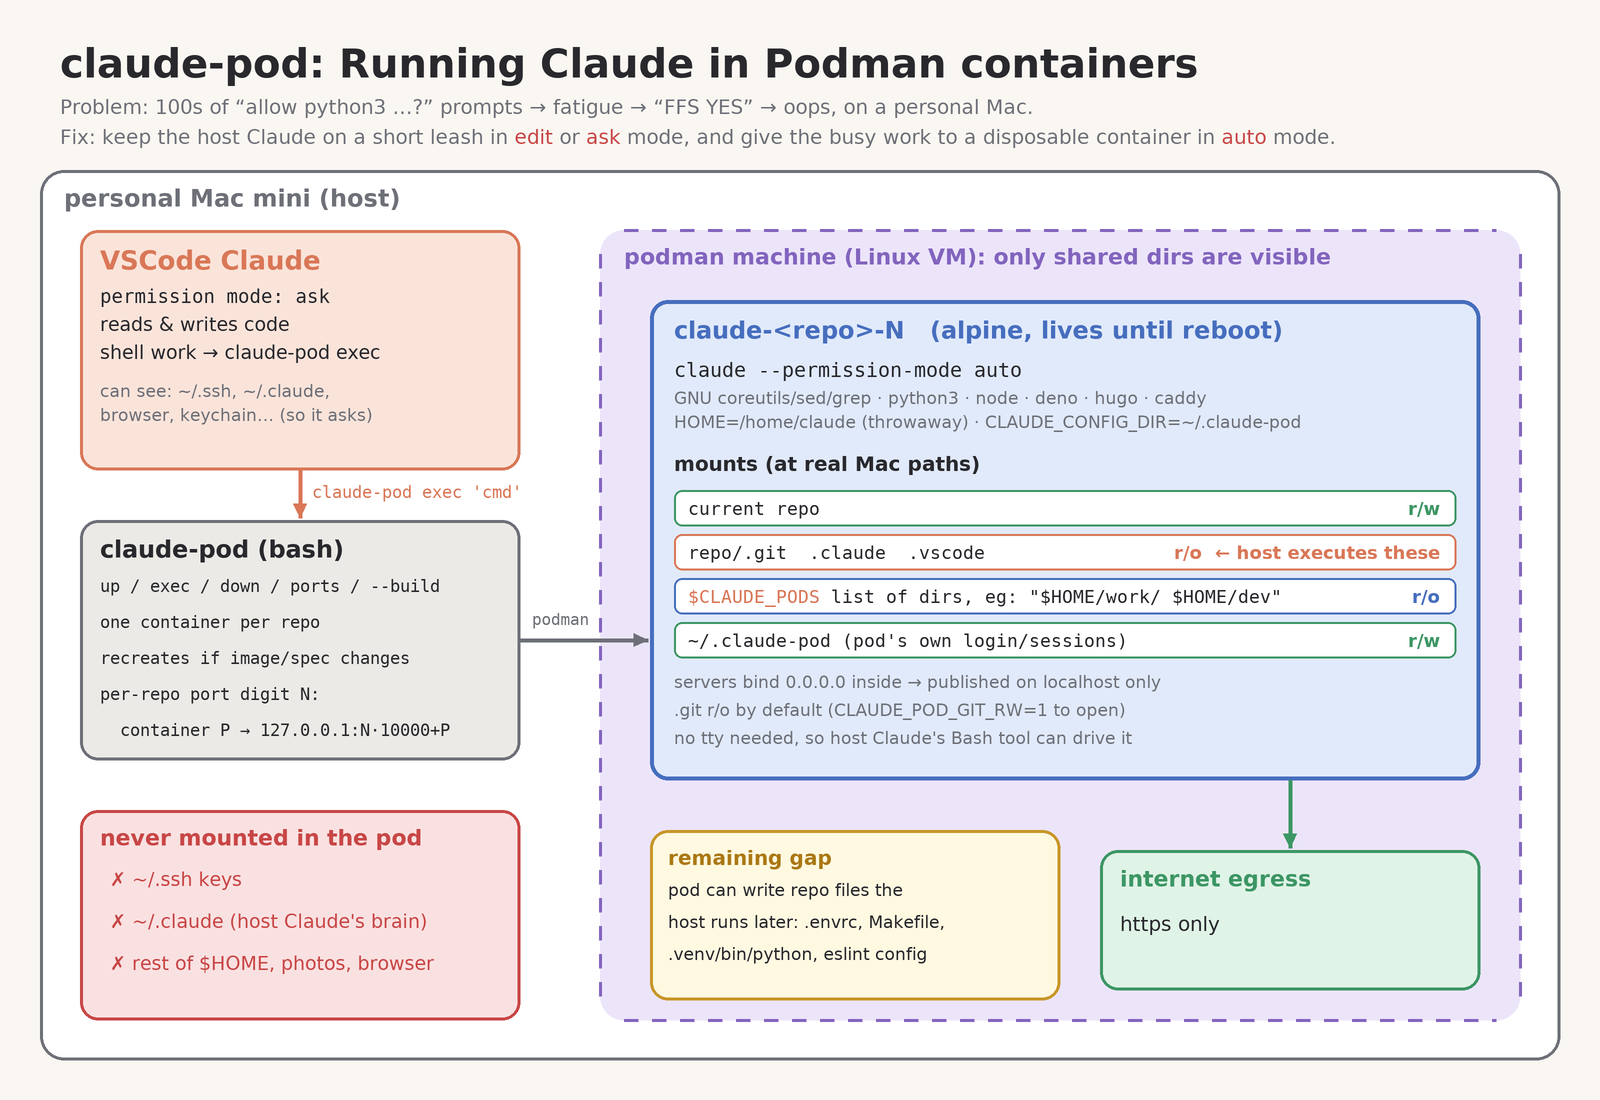
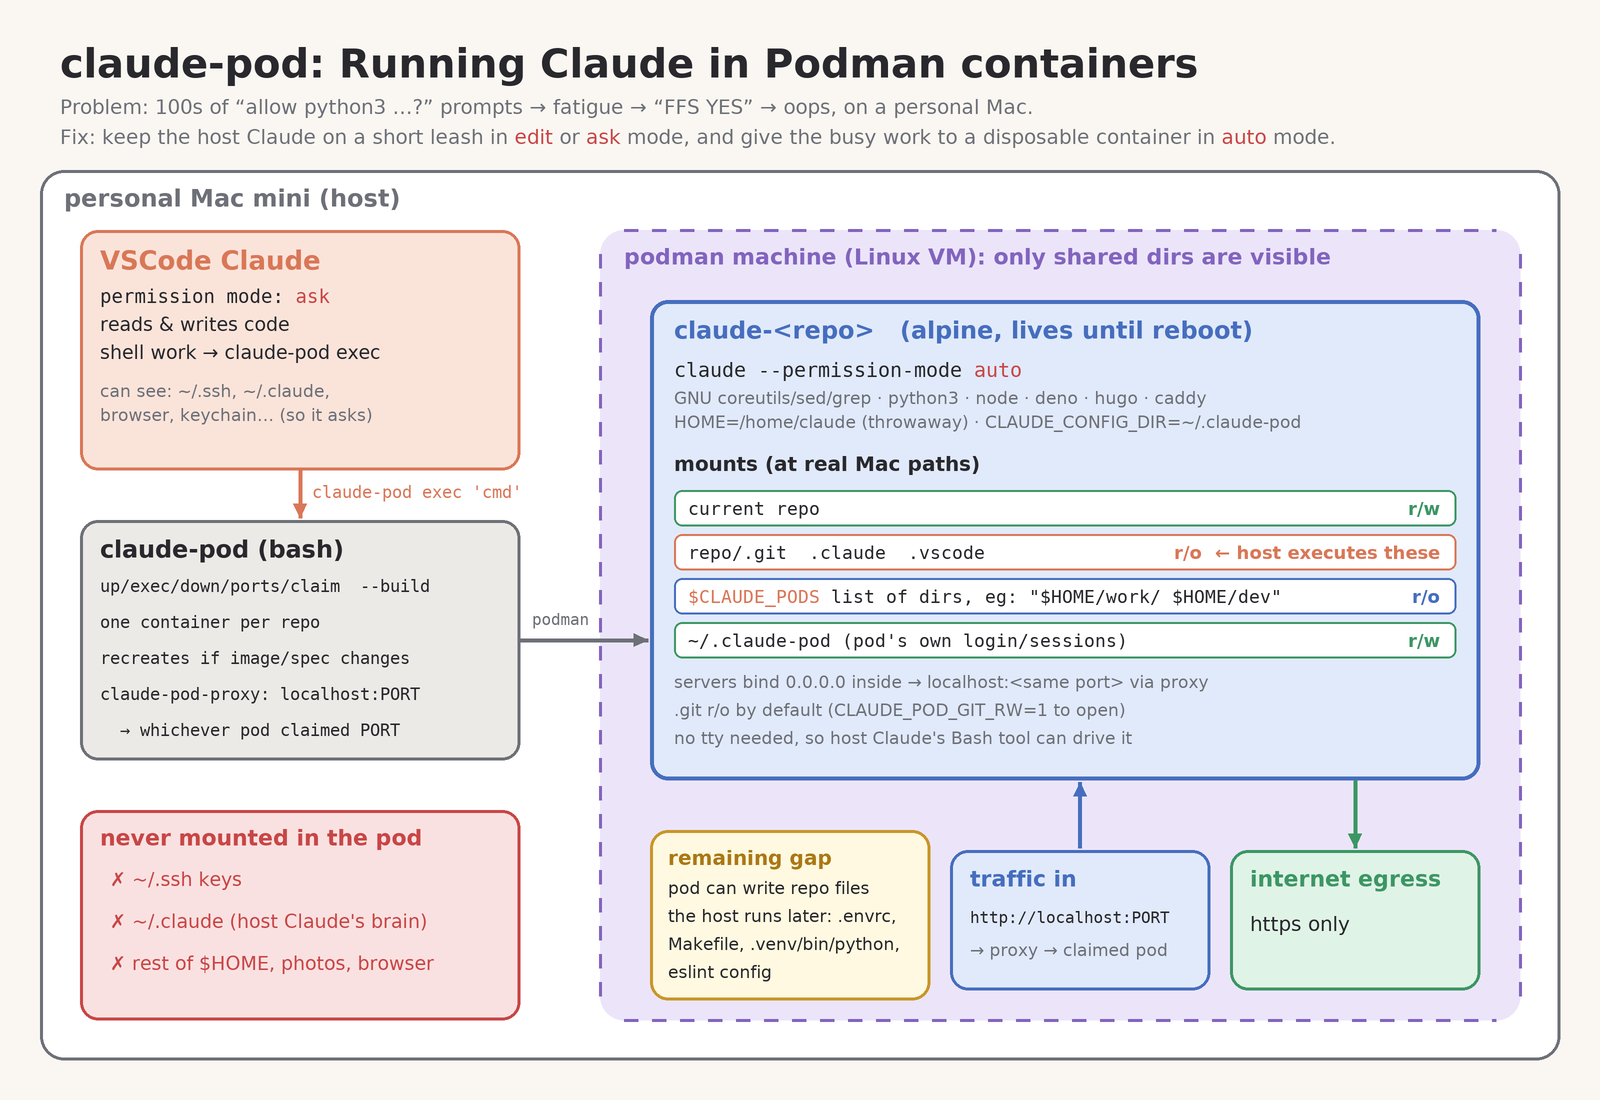
overview updates

diff --git a/claude-pod.py b/claude-pod.py
@@ -56,7 +56,7 @@ T(64,184,"🍎 personal Mac mini (host)".replace("🍎 ",""),f(24,True),GREY)
 # VSCode claude
 R(80,230,520,470,ORL,ORANGE)
 T(100,245,"VSCode Claude",f(26,True),ORANGE)
-T(100,285,"permission mode: ask",f(19,m=True))
+TC(100,285,[("permission mode: ",(40,40,45)),("ask",RED)],f(19,m=True))
 T(100,313,"reads & writes code",f(19))
 T(100,341,"shell work → claude-pod exec",f(19))
 T(100,381,"can see: ~/.ssh, ~/.claude,",f(17),GREY)
@@ -71,7 +71,7 @@ for i,s in enumerate(["~/.ssh keys","~/.claude (host Claude's brain)","rest of $
 # script
 R(80,520,520,760,GRY,GREY)
 T(100,535,"claude-pod (bash)",f(24,True))
-for i,s in enumerate(["up / exec / down / ports / --build","one container per repo","recreates if image/spec changes","claude-pod-proxy: localhost:P","  → whichever pod claimed P"]):
+for i,s in enumerate(["up/exec/down/ports/claim  --build","one container per repo","recreates if image/spec changes","claude-pod-proxy: localhost:PORT","  → whichever pod claimed PORT"]):
     T(100,576+i*36,s,f(17,m=True))
 
 # VM
@@ -81,7 +81,7 @@ T(624,244,"podman machine (Linux VM): only shared dirs are visible",f(22,True),P
 # container
 R(650,300,1480,780,BLL,BLUE,4)
 T(674,316,"claude-<repo>   (alpine, lives until reboot)",f(24,True),BLUE)
-T(674,358,"claude --permission-mode auto",f(20,m=True))
+TC(674,358,[("claude --permission-mode ",(40,40,45)),("auto",RED)],f(20,m=True))
 T(674,388,"GNU coreutils/sed/grep · python3 · node · deno · hugo · caddy",f(17),GREY)
 T(674,412,"HOME=/home/claude (throwaway) · CLAUDE_CONFIG_DIR=~/.claude-pod",f(17),GREY)
 
@@ -98,15 +98,22 @@ for i,(a,b,c) in enumerate(rows):
     R(674,y,1456,y+36,(255,255,255),c,2,8)
     TC(688,y+8,a if isinstance(a,list) else [(a,(40,40,45))],f(18,m=True))
     T(1440,y+8,b,f(18,True),c,anchor="ra");
-T(674,672,"servers bind 0.0.0.0 inside → published on localhost only",f(17),GREY)
+T(674,672,"servers bind 0.0.0.0 inside → localhost:<same port> via proxy",f(17),GREY)
 T(674,700,".git r/o by default (CLAUDE_POD_GIT_RW=1 to open)",f(17),GREY)
 T(674,728,"no tty needed, so host Claude's Bash tool can drive it",f(17),GREY)
 
+# traffic in, from the Mac
+R(950,850,1210,990,BLL,BLUE)
+T(970,866,"traffic in",f(22,True),BLUE)
+T(970,908,"http://localhost:PORT",f(16,m=True))
+T(970,940,"→ proxy → claimed pod",f(17),GREY)
+arrow(1080,848,1080,782,BLUE)
+
 # internet
-R(1100,850,1480,990,GRL,GREEN)
-T(1120,866,"internet egress",f(22,True),GREEN)
-T(1120,912,"https only",f(20))
-arrow(1290,780,1290,848,GREEN)
+R(1230,850,1480,990,GRL,GREEN)
+T(1250,866,"internet egress",f(22,True),GREEN)
+T(1250,912,"https only",f(20))
+arrow(1355,780,1355,848,GREEN)
 
 # arrows
 arrow(300,470,300,518,ORANGE,4,"claude-pod exec 'cmd'",312,482)
@@ -114,10 +121,10 @@ arrow(520,640,648,640,GREY,4)
 T(532,610,"podman",f(16,m=True),GREY)
 
 # caveat
-R(650,830,1060,1000,(255,249,225),(200,150,40))
+R(650,830,930,1000,(255,249,225),(200,150,40))
 T(668,846,"remaining gap",f(20,True),(170,120,20))
-for i,s in enumerate(["pod can write repo files the","host runs later: .envrc, Makefile,",".venv/bin/python, eslint config"]):
-    T(668,880+i*32,s,f(17))
+for i,s in enumerate(["pod can write repo files","the host runs later: .envrc,","Makefile, .venv/bin/python,","eslint config"]):
+    T(668,878+i*28,s,f(17))
 
 img=img.resize((W,H),Image.LANCZOS)
 img.save("claude-pod.png")
